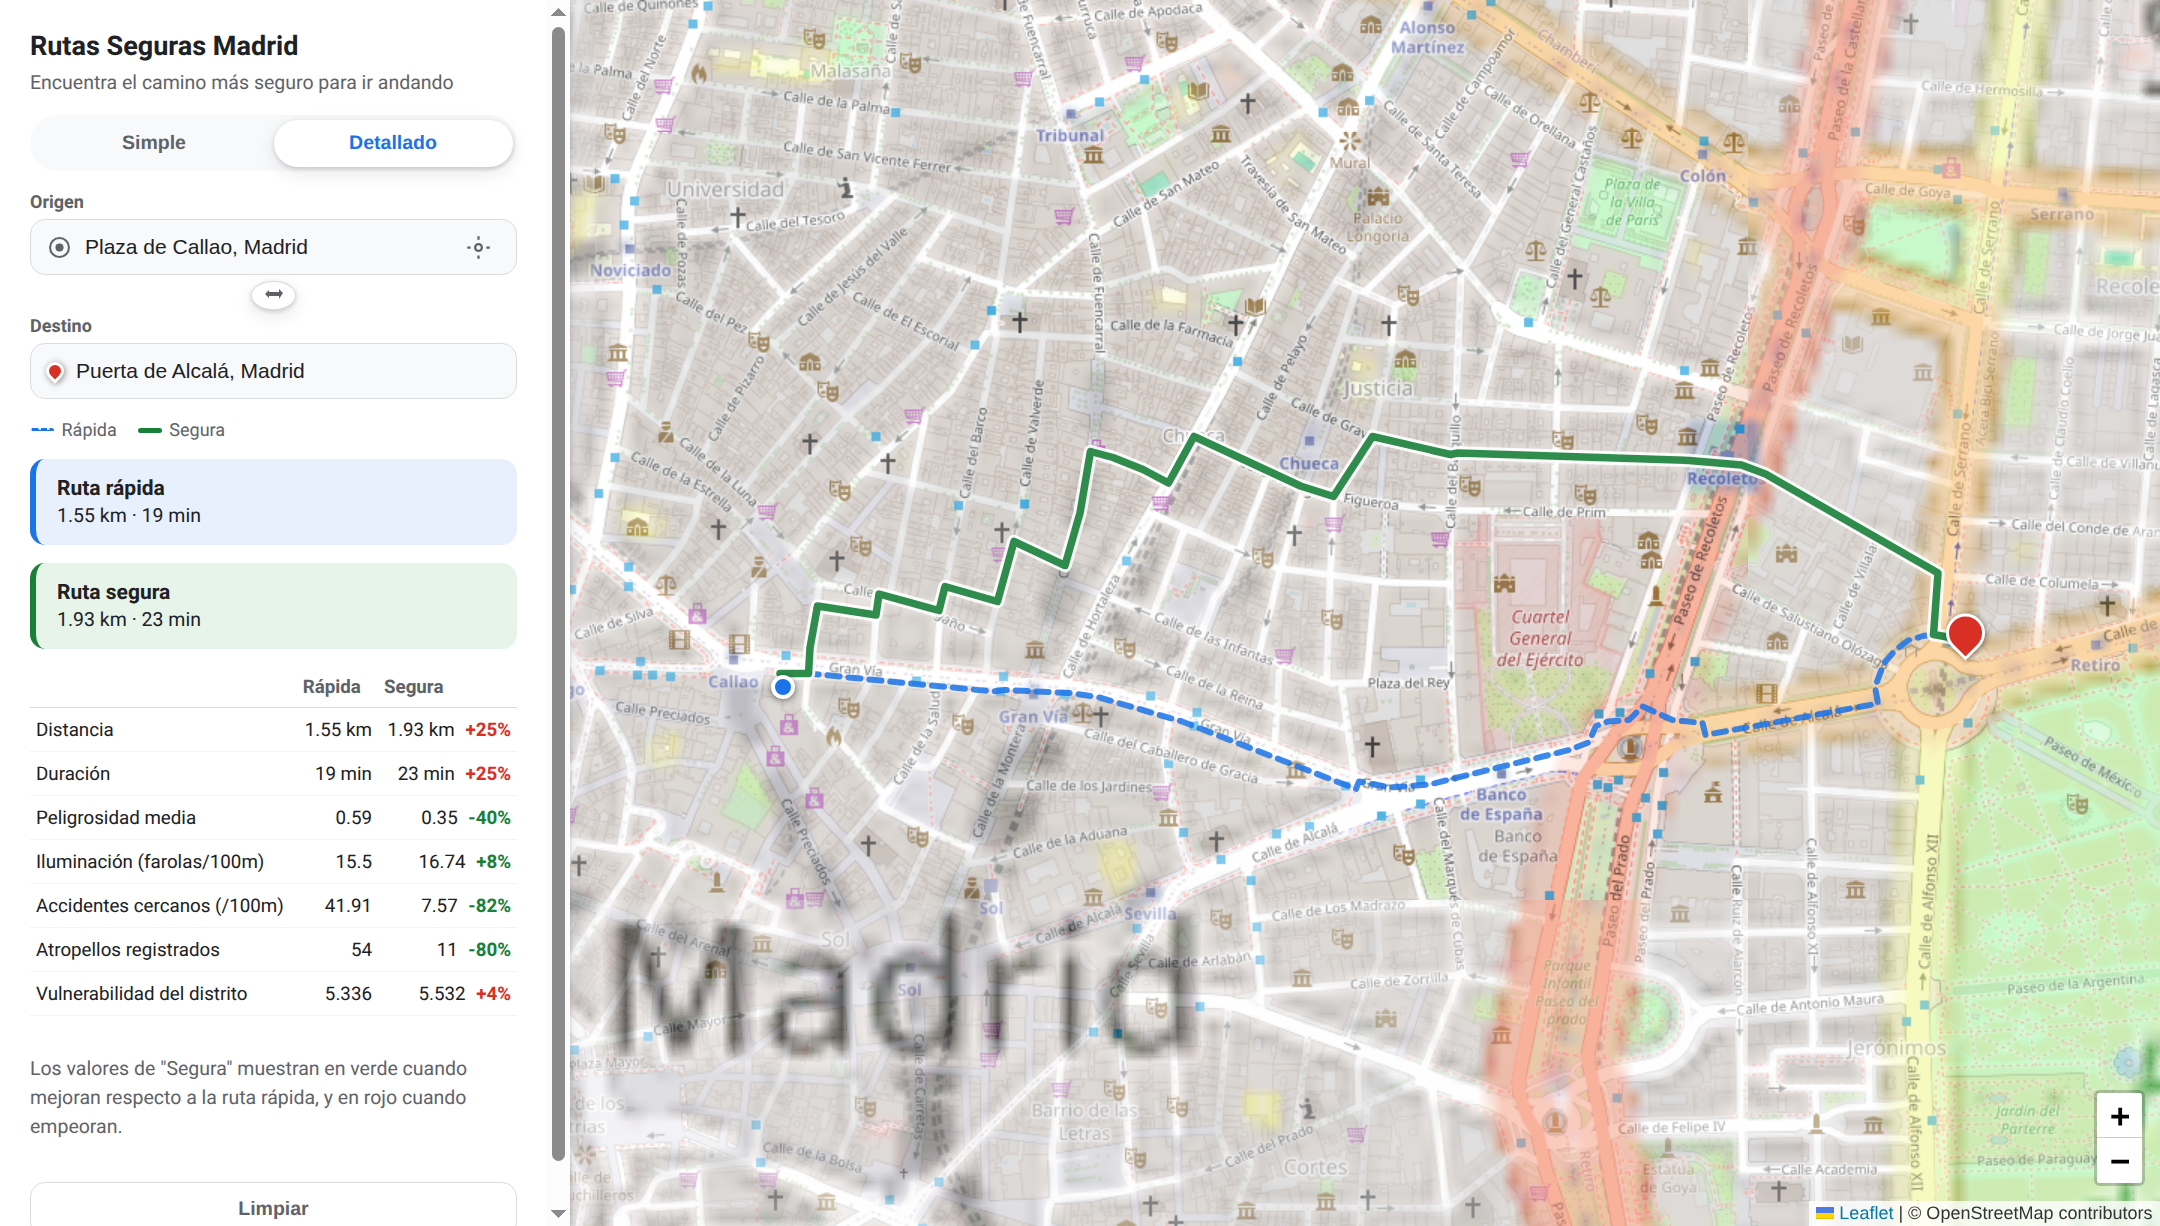
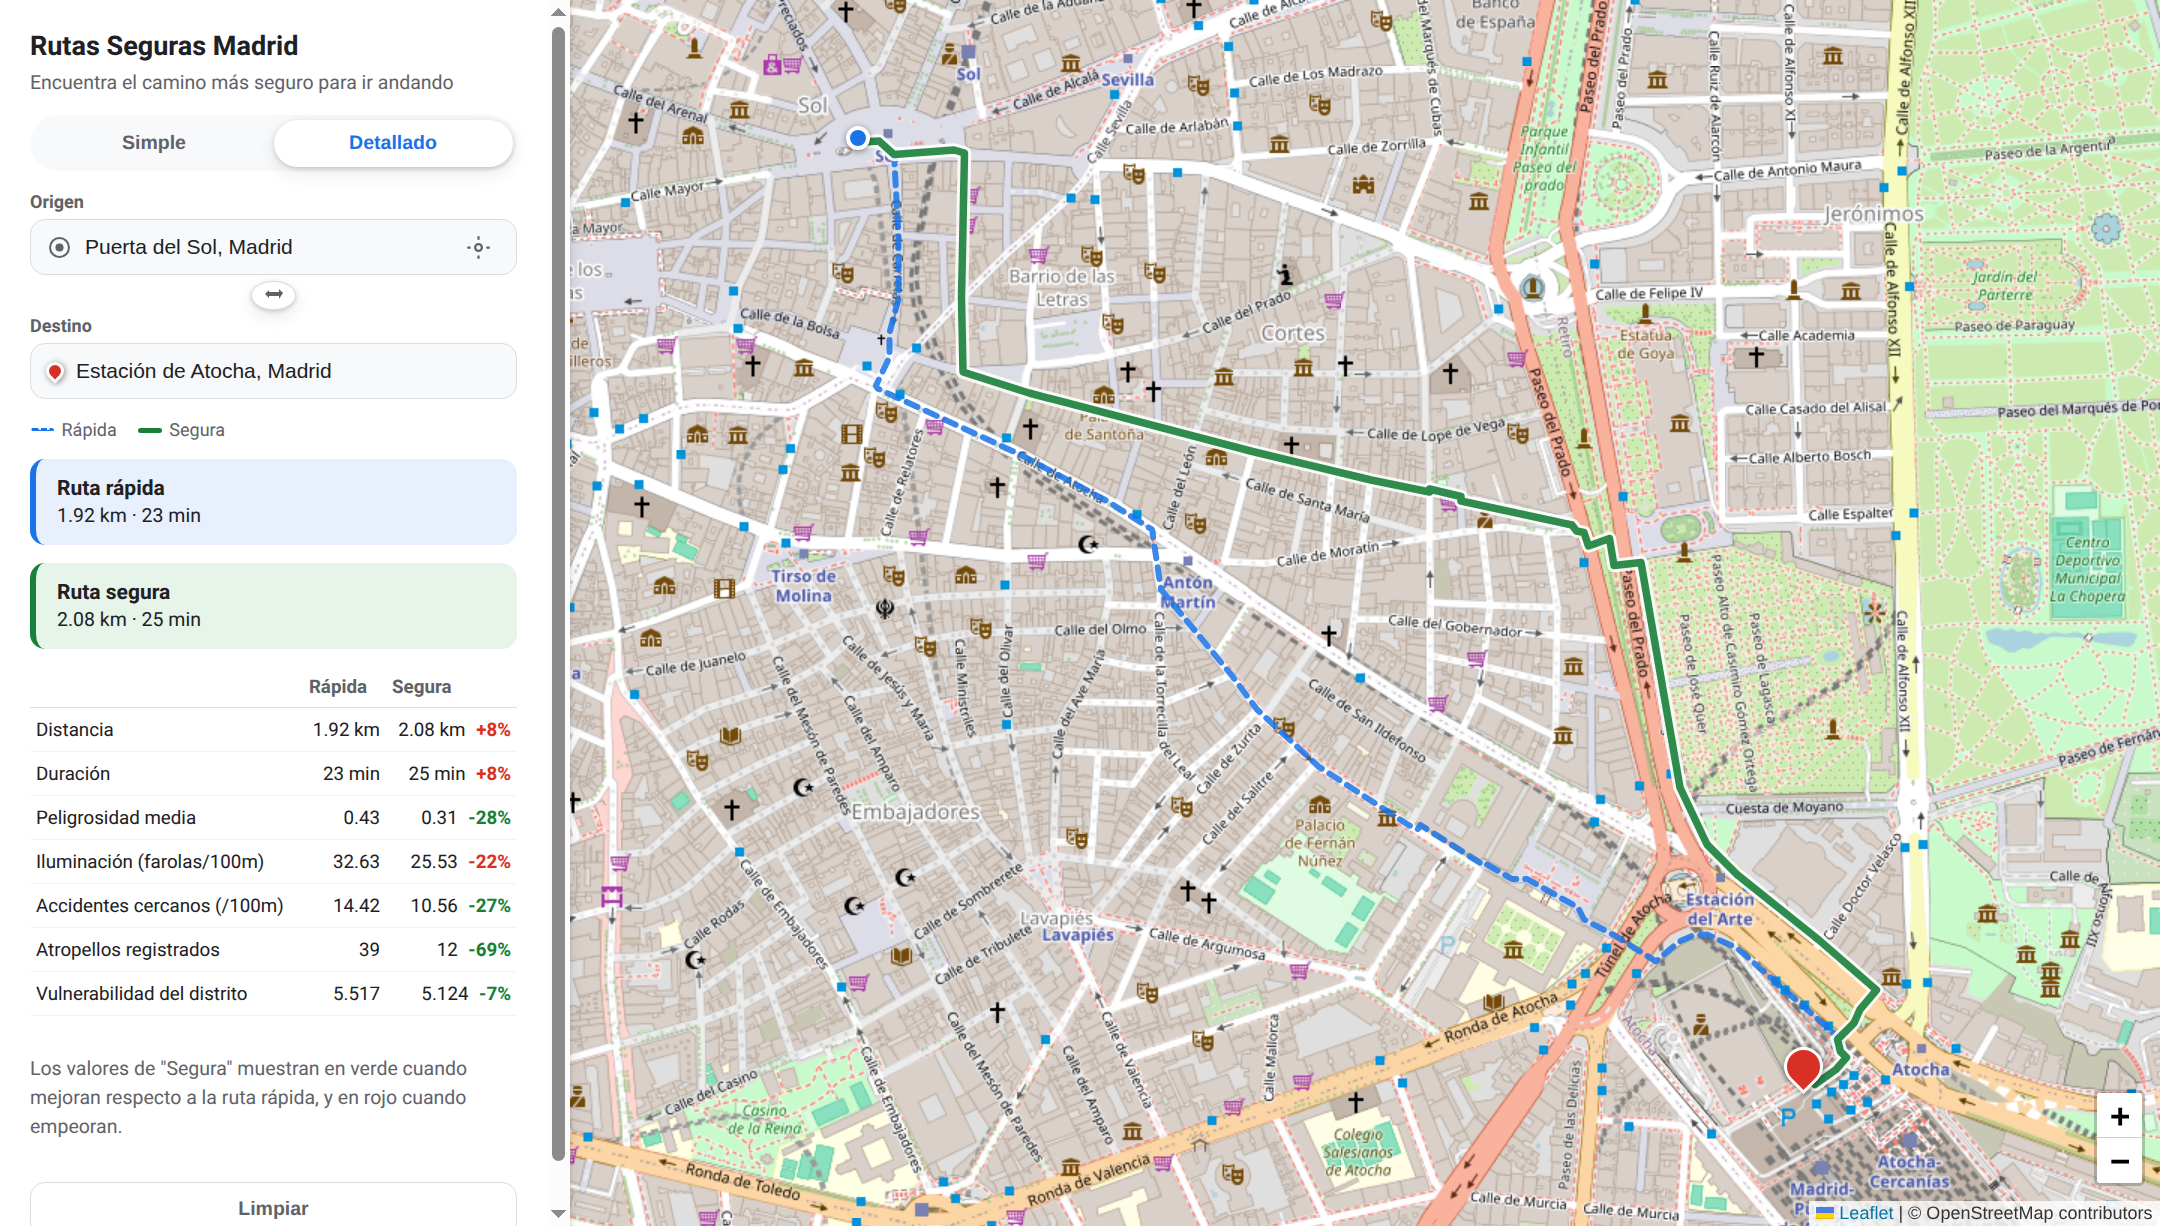
Cambiar el trayecto de las capturas del visor a Sol -- Atocha
Sustituye Callao -- Puerta de Alcalá por Puerta del Sol -- Atocha en
las Figuras 4.1 y 4.2, y actualiza el texto y los pies de figura del
Capítulo 4 en consecuencia (insignia "Segura" en vez de "Moderada").
Los valores de la tabla comparativa siguen coincidiendo con el caso
Sol -- Atocha de la Tabla 6.1.

diff --git a/docs/capitulos/04_Metodologia.tex b/docs/capitulos/04_Metodologia.tex
@@ -174,12 +174,12 @@ El frontend se implementa como una única página HTML (\texttt{web/templates/in
 
 El estado de la interfaz (puntos seleccionados, modo activo, última respuesta del servidor) se mantiene en un único objeto JavaScript en memoria, y el cambio entre modos \textit{simple} y \textit{detallado} se resuelve completamente en el cliente reutilizando la última respuesta de \texttt{/api/ruta}, sin necesidad de repetir la consulta de enrutamiento al backend.
 
-Las Figuras~\ref{fig:visor_simple} y~\ref{fig:visor_detallado} muestran el prototipo en funcionamiento sobre el par Callao -- Puerta de Alcalá, uno de los pares origen-destino que se retoman con más detalle en la evaluación del Capítulo~\ref{cap:pruebas}. En el modo simple (Figura~\ref{fig:visor_simple}) se aprecia la ruta recomendada, su distancia y duración, y la insignia cualitativa de seguridad (\textit{Moderada} en este caso, al tratarse de un trayecto por el centro de Madrid). En el modo detallado (Figura~\ref{fig:visor_detallado}) se superponen ambas rutas —discontinua en azul la rápida, continua en verde la segura— junto con la tabla comparativa de indicadores, cuyos valores coinciden con los recogidos más adelante en la Tabla~\ref{tab:resultados_rutas}.
+Las Figuras~\ref{fig:visor_simple} y~\ref{fig:visor_detallado} muestran el prototipo en funcionamiento sobre el par Puerta del Sol -- Atocha, uno de los pares origen-destino que se retoman con más detalle en la evaluación del Capítulo~\ref{cap:pruebas}. En el modo simple (Figura~\ref{fig:visor_simple}) se aprecia la ruta recomendada, su distancia y duración, y la insignia cualitativa de seguridad (\textit{Segura} en este caso). En el modo detallado (Figura~\ref{fig:visor_detallado}) se superponen ambas rutas —discontinua en azul la rápida, continua en verde la segura— junto con la tabla comparativa de indicadores, cuyos valores coinciden con los recogidos más adelante en la Tabla~\ref{tab:resultados_rutas}.
 
 \begin{figure}[h]
 \centering
 \includegraphics[width=\textwidth]{imagenes/visor_simple.png}
-\caption{Visor web, modo simple, para el trayecto Callao -- Puerta de Alcalá.}
+\caption{Visor web, modo simple, para el trayecto Puerta del Sol -- Atocha.}
 \label{fig:visor_simple}
 \end{figure}
 
